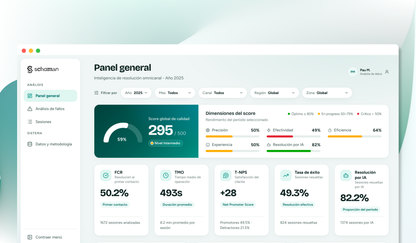
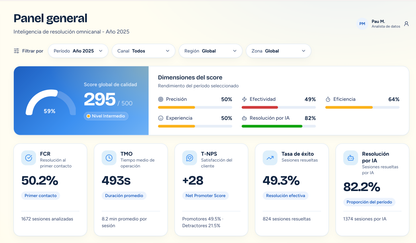
feat: hacer que pau.exe parpadee cada 4 segundos y actualizar la miniatura de Schaman

diff --git a/src/scripts/inicio/pau-exe/carita.ts b/src/scripts/inicio/pau-exe/carita.ts
@@ -8,23 +8,21 @@
       qué ojos y qué boca se ven. Sin segundo argumento, se queda hasta
       que alguien la cambie.
 
-   2. EL CICLO DE DORMIR. pau.exe no solo reacciona: tiene un ritmo.
-        · nadie la toca en 25 s → cierra los ojos y se queda QUIETA
-        · cualquier gesto dentro de la ventana → despierta
-      Dormitar va hacia la quietud, no hacia el movimiento. Con "menos
-      movimiento" NO dormita: unos ojos cerrados para siempre en una
-      página sin animación se leerían como un error de dibujo.
-
-   El parpadeo es lo único que se mueve solo en todo el sitio.
+   2. EL PARPADEO. Cada 4 segundos, siempre, sin pararse nunca. Antes
+      parpadeaba a destiempo y se dormía a los 25 s sin que nadie la
+      tocara; Pau prefirió (2026-10-28) que no se duerma y que el
+      ritmo sea fijo, el mismo que la mascota de los casos.
+      Si en ese momento tiene otra cara puesta (sonríe, se sorprende),
+      ese parpadeo se salta: no le cierra los ojos a una expresión.
+      Con «menos movimiento» no parpadea.
    ═══════════════════════════════════════════════════════════ */
-import { compu, menosMovimiento, enPantalla, alAzar } from './elementos';
+import { compu, menosMovimiento } from './elementos';
 
-/** Cuánto aguanta sin que nadie la toque. Es el único número a tocar. */
-const ESPERA_ANTES_DE_DORMIR = 25000;
+/** Cada cuánto parpadea, y cuánto dura el parpadeo. */
+const CADA = 4000;
+const DURA = 130;
 
 let expresion: number | undefined;
-let siesta: number | undefined;
-let dormida = false;
 
 export function carita(cara: string, cuanto?: number): void {
   if (!compu) return;
@@ -35,56 +33,10 @@ export function carita(cara: string, cuanto?: number): void {
   }
 }
 
-export const estaDormida = (): boolean => dormida;
-
-function dormir(): void {
-  if (dormida || !compu) return;
-  dormida = true;
-  window.clearTimeout(expresion);
-  compu.classList.add('is-asleep');
-  compu.setAttribute('data-face', 'blink');   /* ojos cerrados, sin reloj */
-}
-
-/**
- * La despierta y reinicia la cuenta.
- * Devuelve `true` solo si venía dormida, para que quien llame decida
- * si además la saluda. (Antes el saludo vivía aquí dentro, y eso
- * obligaba a que la carita conociera el diálogo.)
- */
-export function despertar(): boolean {
-  window.clearTimeout(siesta);
-  const seDespierta = dormida;
-  if (dormida) {
-    dormida = false;
-    compu?.classList.remove('is-asleep');
-    carita('happy', 900);
-  }
-  if (!menosMovimiento) siesta = window.setTimeout(dormir, ESPERA_ANTES_DE_DORMIR);
-  return seDespierta;
-}
-
-/** Arranca el ciclo: parpadeo ocasional y la primera cuenta para dormir. */
+/** Arranca el parpadeo: cada 4 s, para siempre. */
 export function empezarElCiclo(): void {
   if (menosMovimiento || !compu) return;
-
-  siesta = window.setTimeout(dormir, ESPERA_ANTES_DE_DORMIR);
-
-  let parpadeos = 0;
-  const programar = (): void => {
-    window.setTimeout(() => {
-      if (enPantalla() && !dormida && !compu.getAttribute('data-face')) {
-        parpadeos++;
-        /* cada siete parpadeos, en vez de parpadear, sonríe o guiña */
-        if (parpadeos % 7 === 0) {
-          carita(Math.random() < 0.5 ? 'happy' : 'wink', 1400);
-        } else {
-          carita('blink', 130);
-          /* y a veces es un parpadeo doble */
-          if (Math.random() < 0.2) window.setTimeout(() => carita('blink', 120), 260);
-        }
-      }
-      programar();
-    }, alAzar(3200, 6500));
-  };
-  programar();
+  window.setInterval(() => {
+    if (!compu.getAttribute('data-face')) carita('blink', DURA);
+  }, CADA);
 }

diff --git a/src/scripts/inicio/pau-exe/reacciones.ts b/src/scripts/inicio/pau-exe/reacciones.ts
@@ -14,10 +14,9 @@
                            con los repos, guiña a LinkedIn
      el título             pau.exe ↔ pausita.exe al pasar el mouse
      cambio de idioma      lo celebra, sin moverse
-     entrar con el cursor  si estaba dormida, despierta y saluda
    ═══════════════════════════════════════════════════════════ */
 import { ventana, compu, menosMovimiento, punteroFino, enPantalla } from './elementos';
-import { carita, despertar, estaDormida, empezarElCiclo } from './carita';
+import { carita, empezarElCiclo } from './carita';
 import { escribir, decir, bienvenida, cancelarVuelta, volverALaBienvenida, estaEscribiendo } from './dialogo';
 import { gesto, destello, hundir, chispita, limpiarAlTerminar } from './gestos';
 import { dice, mensajesDeEstado } from './textos';
@@ -40,19 +39,10 @@ export function encenderPauExe(): void {
   if (!menosMovimiento) {
     ([['corriendo', 16000], ['sigueAhi', 48000]] as const).forEach(([clave, cuando]) => {
       window.setTimeout(() => {
-        if (enPantalla() && !estaDormida() && !estaEscribiendo()) decir(dice(clave), 2200);
+        if (enPantalla() && !estaEscribiendo()) decir(dice(clave), 2200);
       }, cuando);
     });
   }
-
-  /* ── despierta con cualquier gesto dentro de la ventana ── */
-  const atender = (saluda: boolean) => () => {
-    if (despertar() && saluda) decir(dice('despierta'), 1200);
-  };
-  ventana.addEventListener('pointerenter', atender(true));
-  ventana.addEventListener('pointermove', atender(false));
-  ventana.addEventListener('pointerdown', atender(false));
-  ventana.addEventListener('focusin', atender(false));
 
   /* ── la compu ── */
   compu.addEventListener('pointerdown', hundir);
@@ -87,7 +77,6 @@ export function encenderPauExe(): void {
       : boton.classList.contains('gh') ? 'github' : 'linkedin';
 
     const entrar = (): void => {
-      despertar();
       cancelarVuelta();
       escribir(dice(PISTA_DE[cual]), 22);
       carita(CARA_DE[cual]);
@@ -118,7 +107,6 @@ export function encenderPauExe(): void {
 
   /* ── cambio de idioma desde la taskbar ── */
   document.addEventListener('langchange', () => {
-    despertar();
     cancelarVuelta();
     carita('happy', 1200);
     decir(dice('cambioDeIdioma'), 1400);

diff --git a/src/i18n/en/inicio.ts b/src/i18n/en/inicio.ts
@@ -39,7 +39,6 @@ export const englishInicio: Record<keyof typeof spanishInicio, string> = {
   'pages.home.exe.computerDescription': 'smiling pixel computer',
   'pages.home.exe.welcomeForScreenReaders': 'welcome!',
   'pages.home.exe.welcome': 'welcome! ✿',
-  'pages.home.exe.wakeUp': 'oh, hi ✿',
   'pages.home.exe.running': 'pau.exe is running...',
   'pages.home.exe.stillHere': 'still here? ♡',
   'pages.home.exe.languageChanged': 'switching to english ✿',
@@ -74,8 +73,8 @@ export const englishInicio: Record<keyof typeof spanishInicio, string> = {
   'pages.home.featured.schaman.award': 'redesign',
   'pages.home.featured.wildfire.name': 'Wildfire routes',
   'pages.home.featured.wildfire.windowTitle': 'wildfire_routes',
-  'pages.home.featured.wildfire.imageAlt': 'Visualization of wildfire evacuation routes',
-  'pages.home.featured.wildfire.peek': 'Safe escape routes during a wildfire. My part: the modeling.',
+  'pages.home.featured.schaman.imageAlt': 'Redesigned Schaman Analytics BI overview: the overall score and the five indicators',
+  'pages.home.featured.schaman.peek': 'A dashboard that already worked, redesigned to be easier to explore. My part: the interface.',
   'pages.home.featured.catventures.award': 'design + code',
   'pages.home.featured.catventures.imageAlt': 'Pixel art scene from the Catventures video game',
   'pages.home.featured.catventures.peek': 'A pixel art game in Unity: design, illustration and C#, as a team.',

diff --git a/src/i18n/es/inicio.ts b/src/i18n/es/inicio.ts
@@ -43,7 +43,6 @@ export const spanishInicio = {
   'pages.home.exe.computerDescription': 'computadora pixel sonriendo',
   'pages.home.exe.welcomeForScreenReaders': '¡bienvenid@!',
   'pages.home.exe.welcome': '¡bienvenid@! ✿',
-  'pages.home.exe.wakeUp': '¿hola? ✿',
   'pages.home.exe.running': 'pau.exe is running...',
   'pages.home.exe.stillHere': 'still here? ♡',
   'pages.home.exe.languageChanged': 'hablemos en español ✿',
@@ -78,8 +77,8 @@ export const spanishInicio = {
   'pages.home.featured.schaman.award': 'rediseño',
   'pages.home.featured.wildfire.name': 'Rutas de incendio',
   'pages.home.featured.wildfire.windowTitle': 'rutas_de_incendio',
-  'pages.home.featured.wildfire.imageAlt': 'Visualización de rutas de evacuación ante incendios',
-  'pages.home.featured.wildfire.peek': 'Rutas de escape seguras ante un incendio. Mi parte: el modelado.',
+  'pages.home.featured.schaman.imageAlt': 'Panel general rediseñado de Schaman Analytics BI: el score global y los cinco indicadores',
+  'pages.home.featured.schaman.peek': 'Un dashboard que ya funcionaba, rediseñado para explorarlo mejor. Mi parte: la interfaz.',
   'pages.home.featured.catventures.award': 'diseño + código',
   'pages.home.featured.catventures.imageAlt': 'Escena pixel art del videojuego Catventures',
   'pages.home.featured.catventures.peek': 'Un juego pixel art en Unity: diseño, ilustración y C#, en equipo.',

diff --git a/src/styles/global/paginas/inicio-pau-exe.css b/src/styles/global/paginas/inicio-pau-exe.css
@@ -66,9 +66,6 @@
 .mon[data-scr="in"]    .scr{ fill:var(--scr-in); }
 /* golpe de luz de un cuadro (el ✕ y el clic en un botón social) */
 .mon[data-scr="flash"] .scr{ fill:#FFFFFF; transition:none; }
-/* dormitando: la pantalla baja un punto, así se lee incluso en una
-   captura quieta que está en reposo y no apagada */
-.mon.is-asleep .scr{ fill:#E3EDF4; }
 
 /* EL CLIC TIENE PESO: el sprite se hunde 2 px, el mismo gesto que ya
    hacen .btn y .social al :active. Antes la compu cambiaba de cara

diff --git a/src/scripts/inicio/pau-exe/ojos.ts b/src/scripts/inicio/pau-exe/ojos.ts
@@ -43,8 +43,7 @@ export function encenderLosOjos(): void {
 
     let nuevoX = 0;
     let nuevoY = 0;
-    /* dormitando no mira a nadie */
-    if (!lejos && !compu.classList.contains('is-asleep')) {
+    if (!lejos) {
       if (Math.abs(dx) > caja.width * 0.16) nuevoX = dx < 0 ? -1 : 1;
       if (dy < -caja.height * 0.18) nuevoY = -1;
     }

diff --git a/src/scripts/inicio/pau-exe/textos.ts b/src/scripts/inicio/pau-exe/textos.ts
@@ -14,7 +14,6 @@ import type { TranslationKey } from '../../../i18n/keys';
 
 const CLAVES = {
   bienvenida: 'pages.home.exe.welcome',
-  despierta: 'pages.home.exe.wakeUp',
   corriendo: 'pages.home.exe.running',
   sigueAhi: 'pages.home.exe.stillHere',
   cambioDeIdioma: 'pages.home.exe.languageChanged',
